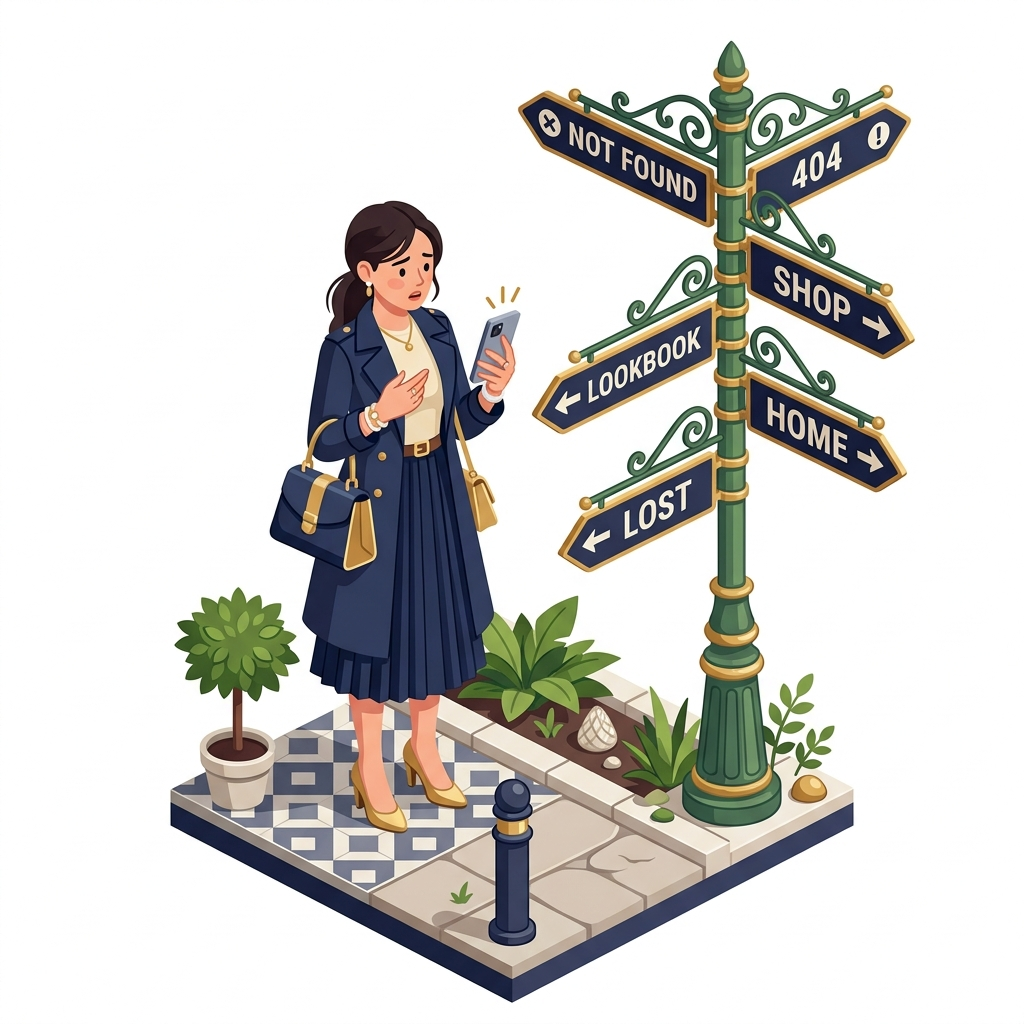
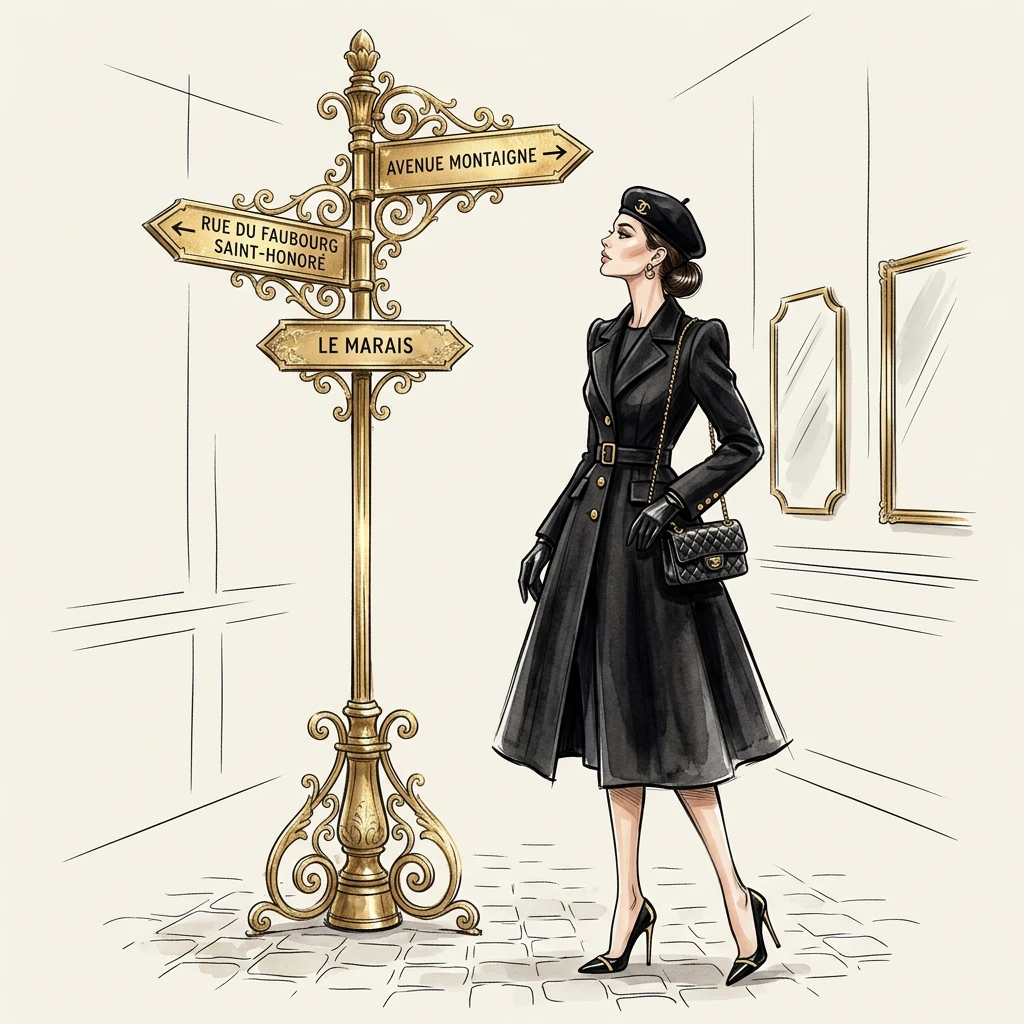
feat(404): update 404 page illustration with luxury Parisian haute couture editorial artwork

diff --git a/404.html b/404.html
@@ -332,7 +332,9 @@
       z-index: 2;
       animation: floatIllustration 4s ease-in-out infinite;
       margin-top: 48px;
-      filter: drop-shadow(0 20px 40px rgba(0,0,0,0.12));
+      border-radius: 18px;
+      mix-blend-mode: multiply;
+      filter: contrast(1.03);
     }
     @keyframes floatIllustration {
       0%,100% { transform: translateY(0); }
@@ -437,7 +439,7 @@
       </div>
       <img
         src="./images/404-illustration.webp"
-        alt="Confused fashionista looking at a signpost with directions"
+        alt="Parisian haute couture fashionista looking at street signpost"
         class="illustration"
         loading="eager"
       />
